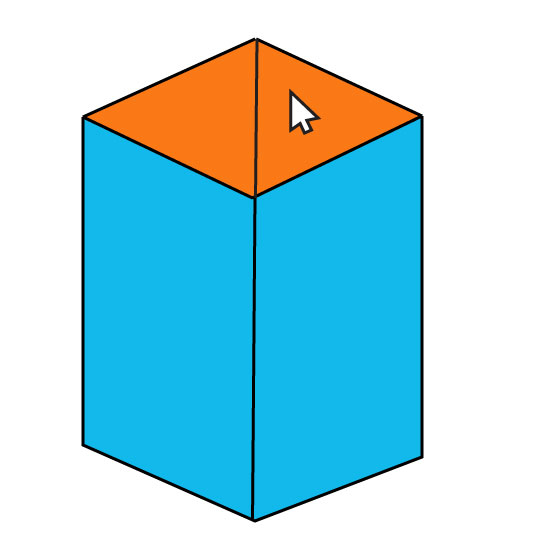
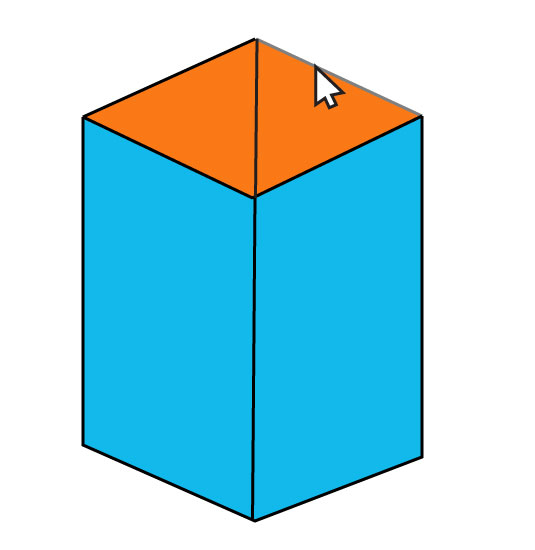
fix tests descriptions

Changed region(s): [[0.5383, 0.0927, 0.7776, 0.2473], [0.4785, 0.0618, 0.5383, 0.0927]]

diff --git a/src/app/components/witkin/WitkinHelp.html b/src/app/components/witkin/WitkinHelp.html
@@ -10,27 +10,27 @@
   </p>
   <h2 class="text-center">Приклад</h2>
   <div>
-    <p>1. Спочатку, впродовж п’ятнадцяти секунд, ви побачите складну фігуру.(Ілюстрація 1) Її необхідно ретельно роздивитись і запам’ятати. </p>
+    <p>1. Спочатку, впродовж п’ятнадцяти секунд, ви побачите складну фігуру (Ілюстрація 1). Її необхідно ретельно роздивитись і запам’ятати. </p>
     <img src="images/witkin_help_1.jpg" id="image1"><label for="image1">Ілюстрація 1</label><Br>
   </div>
   <div>
-    <p>2. Далі на екрані з’явиться проста фігура. (Ілюстрація 2) Це триватиме десять секунд. Після того, ви знов побачите складну фігуру. Разом з тим розпочнеться відлік часу. </p>
+    <p>2. Далі на екрані з’явиться проста фігура (Ілюстрація 2). Це триватиме десять секунд. Після того ви знов побачите складну фігуру. Разом з тим розпочнеться відлік часу. </p>
     <img src="images/witkin_help_2.jpg" id="image2"><label for="image2">Ілюстрація 2</label><Br>
   </div>
   <div>
-    <p>3. Як тільки ви віднайдете просту фігуру у складній, натисніть кнопку «ФІГУРУ ЗНАЙДЕНО». (Ілюстрація 3)</p>
+    <p>3. Як тільки ви віднайдете просту фігуру у складній, натисніть кнопку «ФІГУРУ ЗНАЙДЕНО» (Ілюстрація 3).</p>
     <img src="images/witkin_help_3.jpg" id="image3" style="padding: 30px"><label for="image3">Ілюстрація 3</label><Br>
   </div>
   <div>
-    <p>4. Усі лінії складної фігури стануть інтерактивними. При наведенні курсору лінія забарвлюється в синій колір.  (Ілюстрація 3) </p>
+    <p>4. Усі лінії складної фігури стануть інтерактивними. При наведенні курсору лінія забарвлюється в сірий колір (Ілюстрація 4). </p>
     <img src="images/witkin_help_4.jpg" id="image4"><label for="image4">Ілюстрація 4</label><Br>
   </div>
   <div>
-    <p>5. Щоб виділити лінію, клацніть по ній лівою кнопкою миші. Колір лінії при цьому зміниться на жовтий.  (Ілюстрація 4) </p>
+    <p>5. Щоб виділити лінію, клацніть по ній лівою кнопкою миші. Колір лінії при цьому зміниться на білий (Ілюстрація 5). </p>
     <img src="images/witkin_help_5.jpg" id="image5"><label for="image5">Ілюстрація 5</label><Br>
   </div>
   <div>
-    <p>За допомогою курсору слід виділити ті лінії складної фігури, які утворюють просту фігуру (Ілюстрація 5). Коли завдання виконано, натисніть кнопку «ДАЛІ». </p>
+    <p>6. За допомогою курсору слід виділити ті лінії складної фігури, які утворюють просту фігуру (Ілюстрація 6). Коли завдання виконано, натисніть кнопку «ДАЛІ». </p>
     <img src="images/witkin_help_6.jpg" id="image6"><label for="image6">Ілюстрація 6</label><Br>
   </div>
   <div class="form-group">

diff --git a/src/app/components/assertions/AssertionTest.html b/src/app/components/assertions/AssertionTest.html
@@ -2,7 +2,7 @@
   <h2 class="text-center">Методика 2</h2>
   <div class="col-sm-offset-1">
     <p>Методика налічує 133 твердження, що описують поведінку однієї людини у стосунках з іншою.</p>
-    <p>Оцініть, будь ласка, якою мірою Ваші дії та переживання щодо людини, яку Ви згадували у методиці 1 (методика з колами), співпадають з тими, що описані у цих твердженнях.
+    <p>Оцініть, будь ласка, якою мірою ваші дії та переживання щодо людини, яку ви згадували у методиці 1 (методика з колами), співпадають з тими, що описані у цих твердженнях.
     Для цього оберіть один з п’яти варіантів відповідей:</p>
     <ul style="list-style-type: none">
       <li>1 – абсолютно не про мене; </li>
@@ -11,7 +11,7 @@
       <li>4 – схоже на мене;</li>
       <li>5 – точно про мене.</li>
     </ul>
-    <p>Якщо у Ваших стосунках не виникало описаної ситуації, <strong>будь ласка, уявіть її</strong> та надайте найбільш імовірну відповідь.</p>
+    <p>Якщо у ваших стосунках не виникало описаної ситуації, <strong>будь ласка, уявіть її</strong> та надайте найбільш імовірну відповідь.</p>
     <p>Найкраще давати відповіді, що першими спадають на думку. Через те не розмірковуйте над ними надто довго.</p>
   </div>
   <br>

diff --git a/src/app/components/circles/CirclesTest.html b/src/app/components/circles/CirclesTest.html
@@ -3,7 +3,7 @@
   <div class="alert alert-info text-center">
     Дві наступні методики створено, щоб дізнатися, як люди регулюють свої
     взаємовідносини. Перша спрямована на з’ясування загальних особливостей
-    Ваших стосунків з певною людиною. Друга методика досліджує Ваші дії та
+    ваших стосунків з певною людиною. Друга методика досліджує ваші дії та
     переживання у стосунках з тою ж людиною.
   </div>
   <h2 class="text-center">Методика 1</h2>
